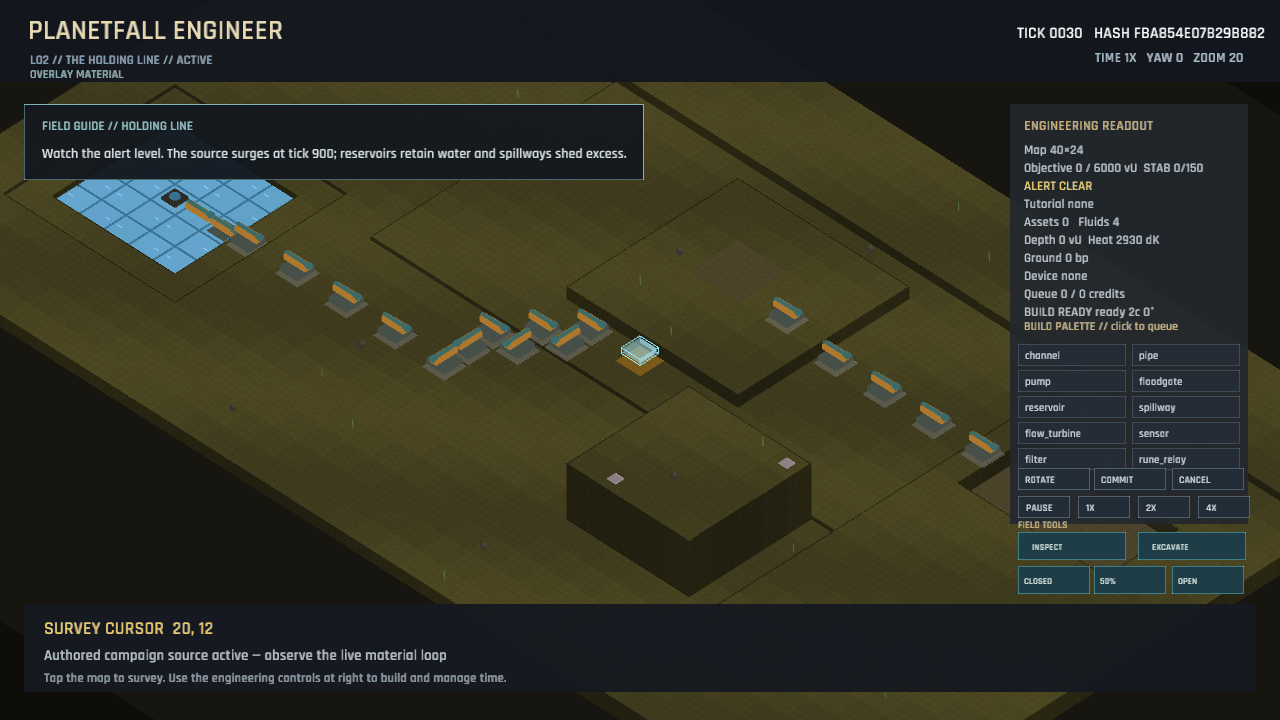
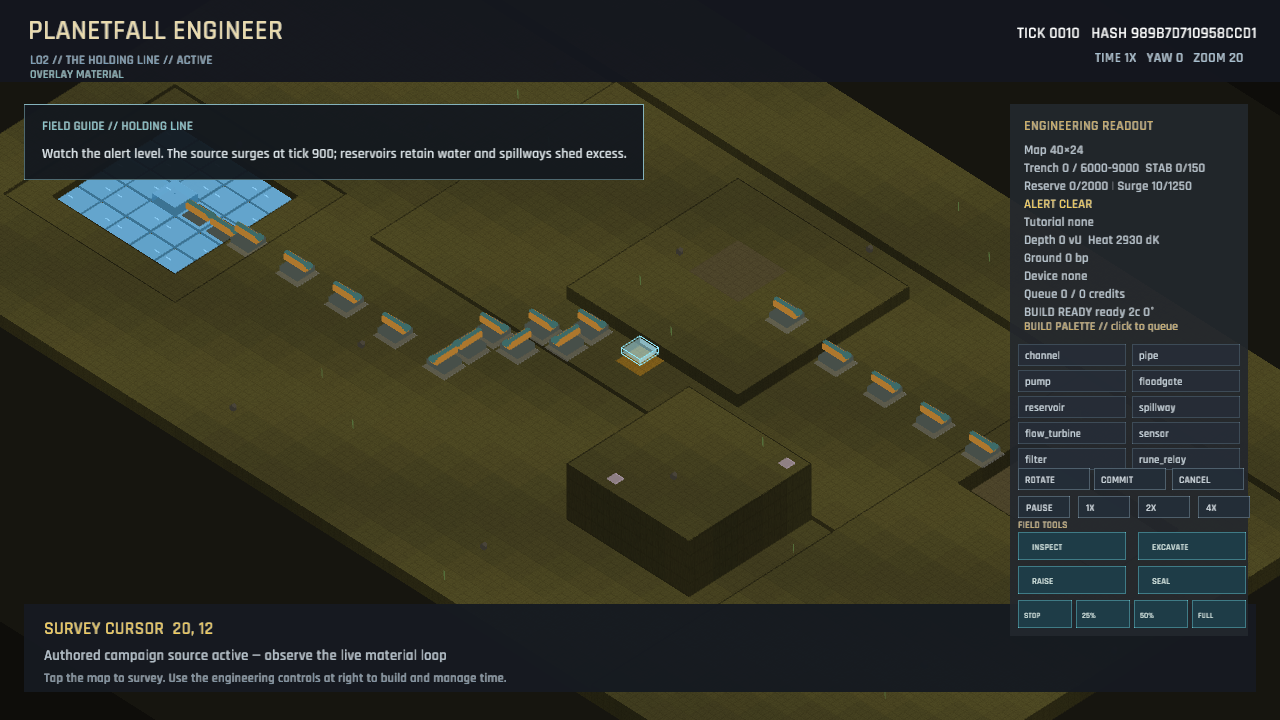
The engineering readout names every condition the planet must hold (L02/L03 objective and device status)
The later missions exposed only their headline material totals. Players could not see reservoir reserve, surge survival, turbine power, relay activation, or device storage, and the alert/tutorial rows overlapped in the live HUD.

Add mission-specific primary and secondary readouts for trench range, reserve, surge tick, firebreak rock, turbine power, and relay state. Selected reservoirs, turbines, and relays now report their authoritative internal values. Extract the formatting owner to ui/status.rs so the HUD remains below the 800-line gate, and remove obsolete asset/fluid diagnostics.

Regenerate L02 and L03 active captures after visual inspection. Verified with 74 tests and publish.ps1 for Windows/WebGL preview deployment.

diff --git a/src/ui.rs b/src/ui.rs
@@ -2,12 +2,14 @@
 
 use crate::{
     mission::MissionPhase,
-    simulation::FluidId,
     state::{GameSession, TimeControl},
 };
 use macroquad::prelude::*;
 use macroquad_toolkit::prelude::*;
 use macroquad_toolkit::ui::draw_ui_text_ex;
+
+mod status;
+use status::{device_status, mission_primary_status, mission_secondary_status};
 
 pub const LOGICAL_WIDTH: f32 = 1280.0;
 pub const LOGICAL_HEIGHT: f32 = 720.0;
@@ -17,7 +19,6 @@ pub struct UiContext<'a> {
     pub camera_yaw: u8,
     pub camera_zoom: f32,
     pub notice: &'a str,
-    pub loaded_assets: usize,
     pub verification_label: Option<&'a str>,
     pub pause_menu: bool,
     pub placement_device: crate::devices::DeviceId,
@@ -142,14 +143,7 @@ pub fn draw_hud(ctx: UiContext<'_>) {
         .devices
         .iter()
         .find(|device| device.anchor == ctx.session.selected)
-        .map(|device| {
-            format!(
-                "Device {} {}% {}",
-                device.device.name(),
-                device.setting_bp / 100,
-                if device.active { "ACTIVE" } else { "IDLE" }
-            )
-        })
+        .map(device_status)
         .unwrap_or_else(|| "Device none".into());
     let tutorial = ctx
         .session
@@ -176,13 +170,7 @@ pub fn draw_hud(ctx: UiContext<'_>) {
     let objective = ctx
         .verification_label
         .map(|label| format!("{} tick {}", label, ctx.session.simulation.tick))
-        .unwrap_or_else(|| {
-            format!(
-                "Objective {} / {} vU",
-                ctx.session.mission.objective_progress,
-                objective_target(ctx.session.mission.id)
-            )
-        });
+        .unwrap_or_else(|| mission_primary_status(ctx.session));
     let objective = if ctx.verification_label.is_some() {
         objective
     } else {
@@ -194,10 +182,18 @@ pub fn draw_hud(ctx: UiContext<'_>) {
         )
     };
     draw_ui_text_ex(&objective, 1024.0, 172.0, style.params());
+    if ctx.verification_label.is_none() {
+        draw_ui_text_ex(
+            &mission_secondary_status(ctx.session),
+            1024.0,
+            190.0,
+            style.params(),
+        );
+    }
     draw_ui_text_ex(
         &format!("ALERT {}", ctx.session.mission.alert_level.name()),
         1024.0,
-        210.0,
+        208.0,
         TextStyle::new(
             13.0,
             if ctx.session.mission.alert_level == crate::mission::AlertLevel::Critical {
@@ -210,16 +206,6 @@ pub fn draw_hud(ctx: UiContext<'_>) {
     );
     draw_ui_text_ex(
         &format!("Tutorial {}", tutorial),
-        1024.0,
-        208.0,
-        style.params(),
-    );
-    draw_ui_text_ex(
-        &format!(
-            "Assets {}   Fluids {}",
-            ctx.loaded_assets,
-            FluidId::ALL.len()
-        ),
         1024.0,
         226.0,
         style.params(),
@@ -471,15 +457,6 @@ fn overlay_name(mode: u8) -> &'static str {
         _ => "MATERIAL",
     }
 }
-fn objective_target(id: crate::mission::MissionId) -> u32 {
-    match id {
-        crate::mission::MissionId::L01FirstFlow | crate::mission::MissionId::L02HoldingLine => {
-            6_000
-        }
-        crate::mission::MissionId::L03Firebreak => 3_000,
-    }
-}
-
 fn stability_target(id: crate::mission::MissionId) -> u32 {
     match id {
         crate::mission::MissionId::L01FirstFlow => 100,

diff --git a/src/ui/status.rs b/src/ui/status.rs
@@ -1,0 +1,86 @@
+//! Compact player-facing mission and selected-device status strings.
+
+use crate::{devices::DeviceId, state::GameSession};
+
+pub(super) fn mission_primary_status(session: &GameSession) -> String {
+    match session.mission.id {
+        crate::mission::MissionId::L01FirstFlow => {
+            format!("Basin {} / 6000 vU", session.mission.objective_progress)
+        }
+        crate::mission::MissionId::L02HoldingLine => {
+            format!("Trench {} / 6000-9000", session.mission.objective_progress)
+        }
+        crate::mission::MissionId::L03Firebreak => {
+            format!(
+                "Firebreak {} / 3000 rock",
+                session.mission.objective_progress
+            )
+        }
+    }
+}
+
+pub(super) fn mission_secondary_status(session: &GameSession) -> String {
+    match session.mission.id {
+        crate::mission::MissionId::L01FirstFlow => {
+            format!("Stable {} / 100 ticks", session.mission.stability_ticks)
+        }
+        crate::mission::MissionId::L02HoldingLine => {
+            let reserve: u32 = session
+                .simulation
+                .devices
+                .devices
+                .iter()
+                .filter(|device| device.device == DeviceId::Reservoir)
+                .map(|device| device.stored_vu)
+                .sum();
+            format!(
+                "Reserve {reserve}/2000 | Surge {}/1250",
+                session.mission.tick.min(1_250)
+            )
+        }
+        crate::mission::MissionId::L03Firebreak => {
+            let power: u64 = session
+                .simulation
+                .devices
+                .devices
+                .iter()
+                .filter(|device| device.device == DeviceId::FlowTurbine)
+                .map(|device| device.cumulative_power)
+                .sum();
+            let relay = session
+                .simulation
+                .devices
+                .devices
+                .iter()
+                .any(|device| device.device == DeviceId::RuneRelay && device.active);
+            format!(
+                "Power {power}/40 | Relay {}",
+                if relay { "ACTIVE" } else { "OFF" }
+            )
+        }
+    }
+}
+
+pub(super) fn device_status(device: &crate::devices::DeviceState) -> String {
+    let state = if device.active { "ACTIVE" } else { "IDLE" };
+    match device.device {
+        DeviceId::Reservoir => format!(
+            "RES {}vU HOLD {}% {state}",
+            device.stored_vu,
+            device.setting_bp / 100
+        ),
+        DeviceId::FlowTurbine => {
+            format!("TURBINE {} power {state}", device.cumulative_power)
+        }
+        DeviceId::RuneRelay => format!(
+            "RELAY PWR {} FLOW {}vU {state}",
+            if device.powered { "YES" } else { "NO" },
+            device.stored_vu
+        ),
+        _ => format!(
+            "{} {}% {state}",
+            device.device.name(),
+            device.setting_bp / 100
+        ),
+    }
+}

diff --git a/src/game.rs b/src/game.rs
@@ -24,7 +24,7 @@ pub struct Game {
     pub(crate) verification_mode: Option<VerificationMode>,
     pub(crate) verification_returns_to_menu: bool,
     pub(crate) frontend_mode: FrontendMode,
-    pub(crate) assets: AssetManager,
+    pub(crate) _assets: AssetManager,
     pub(crate) terrain_texture: Texture2D,
     pub(crate) camera: FoundationCamera,
     pub(crate) lab: FluidsLab,
@@ -170,7 +170,7 @@ impl Game {
         let camera = FoundationCamera::new(data.config.world_width, data.config.world_height);
         let (width, height) = MissionId::L01FirstFlow.map_size();
         let content_maps = data.content.maps.len();
-        Self { data, session, checkpoint_session: None, saved_campaign_session: None, verification_mode: None, verification_returns_to_menu: false, frontend_mode: FrontendMode::Title, assets, terrain_texture, camera, lab: FluidsLab::new(), notice: format!("First Flow ready — {width}×{height} — budget {} — reference {}–{} ticks — content {content_maps} maps validated", campaign.budget, campaign.reference_tick_range.0, campaign.reference_tick_range.1), pause_menu: false, placement_device: DeviceId::Channel, placement_rotation: 0, overlay_mode: 0 }
+        Self { data, session, checkpoint_session: None, saved_campaign_session: None, verification_mode: None, verification_returns_to_menu: false, frontend_mode: FrontendMode::Title, _assets: assets, terrain_texture, camera, lab: FluidsLab::new(), notice: format!("First Flow ready — {width}×{height} — budget {} — reference {}–{} ticks — content {content_maps} maps validated", campaign.budget, campaign.reference_tick_range.0, campaign.reference_tick_range.1), pause_menu: false, placement_device: DeviceId::Channel, placement_rotation: 0, overlay_mode: 0 }
     }
 
     pub fn begin_capture_scene(&mut self, scene: &str) {

diff --git a/src/game_render.rs b/src/game_render.rs
@@ -29,7 +29,6 @@ impl Game {
             camera_yaw: self.camera.yaw,
             camera_zoom: self.camera.zoom,
             notice: &self.notice,
-            loaded_assets: self.assets.len(),
             verification_label: self.verification_mode.map(verification_label),
             pause_menu: self.pause_menu,
             placement_device: self.placement_device,

diff --git a/src/simulation.rs b/src/simulation.rs
@@ -17,7 +17,6 @@ pub enum FluidId {
 }
 
 impl FluidId {
-    pub const ALL: [Self; 4] = [Self::Lava, Self::Steam, Self::ToxicSlurry, Self::Water];
 
     pub const fn max_transfer(self) -> u32 {
         match self {
